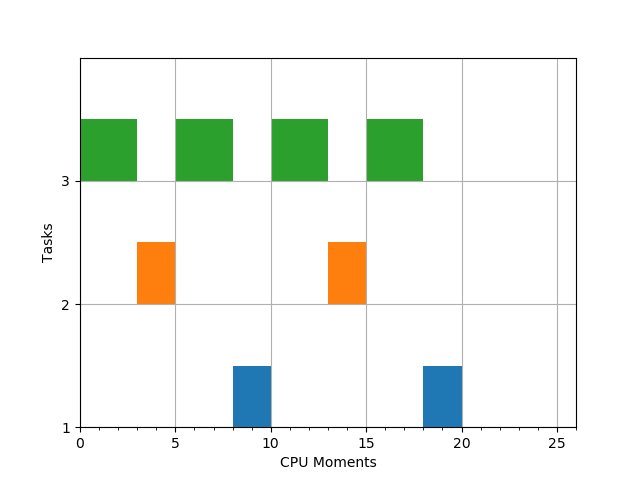
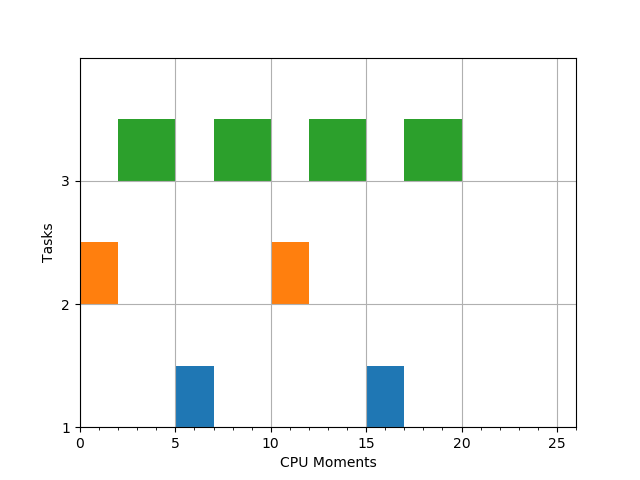
Offset Should be handled

diff --git a/scheduling.py b/scheduling.py
@@ -131,10 +131,14 @@ class TaskScheduling:
         self.jobs.append(Job(job_executions=[JobExecution(start=start)], start=start, cpu_need=self.task.wcet, cpu_units=1))
 
     def is_task_waiting(self, instant):
-        if not self.jobs: return True
+        if not self.jobs:
+            if instant -self.task.offset >=0:
+             return True
+            else :
+                return False
         job = self.jobs[-1]
         range_period_start = job.start//self.task.period
-        range_period_instant = instant // self.task.period
+        range_period_instant = (instant-self.task.offset) // self.task.period
         return  not (range_period_start == range_period_instant)
 
     def is_last_job_finished(self):
@@ -213,7 +217,7 @@ class SystemScheduling:
     #def print_schedules_in_line(self):
 
 def get_first_course_example_schedule():
-    t1 = Task(0, 3, 5, 5)
+    t1 = Task(2, 3, 5, 5)
     t2 = Task(0, 2, 10, 10)
     t3 = Task(0, 4, 20, 20)
     
@@ -229,7 +233,7 @@ def get_scheduling_course_exemple():
 def test_scheduling_course_exemple():
     print(str(get_scheduling_course_exemple()))
 #get_scheduling_course_exemple()
-
+test_scheduling_course_exemple()
 """
 class Job:
     
